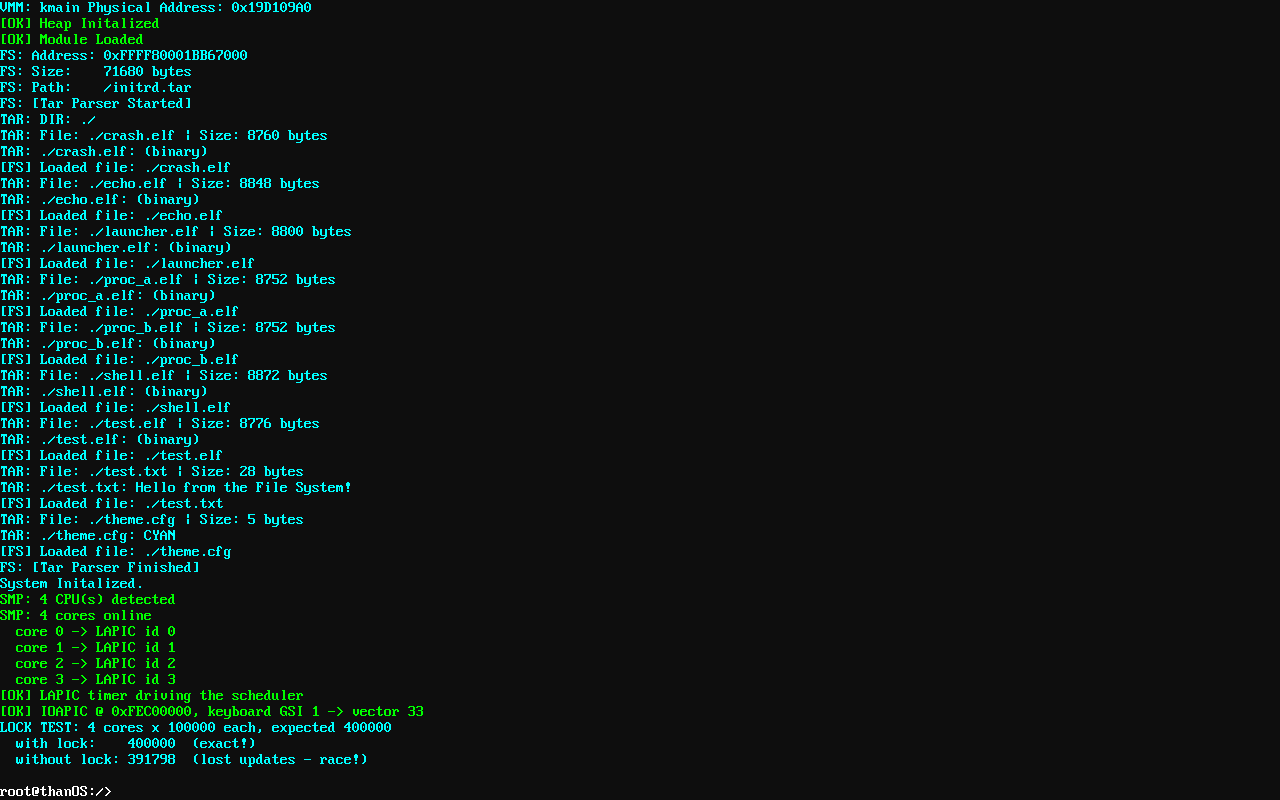
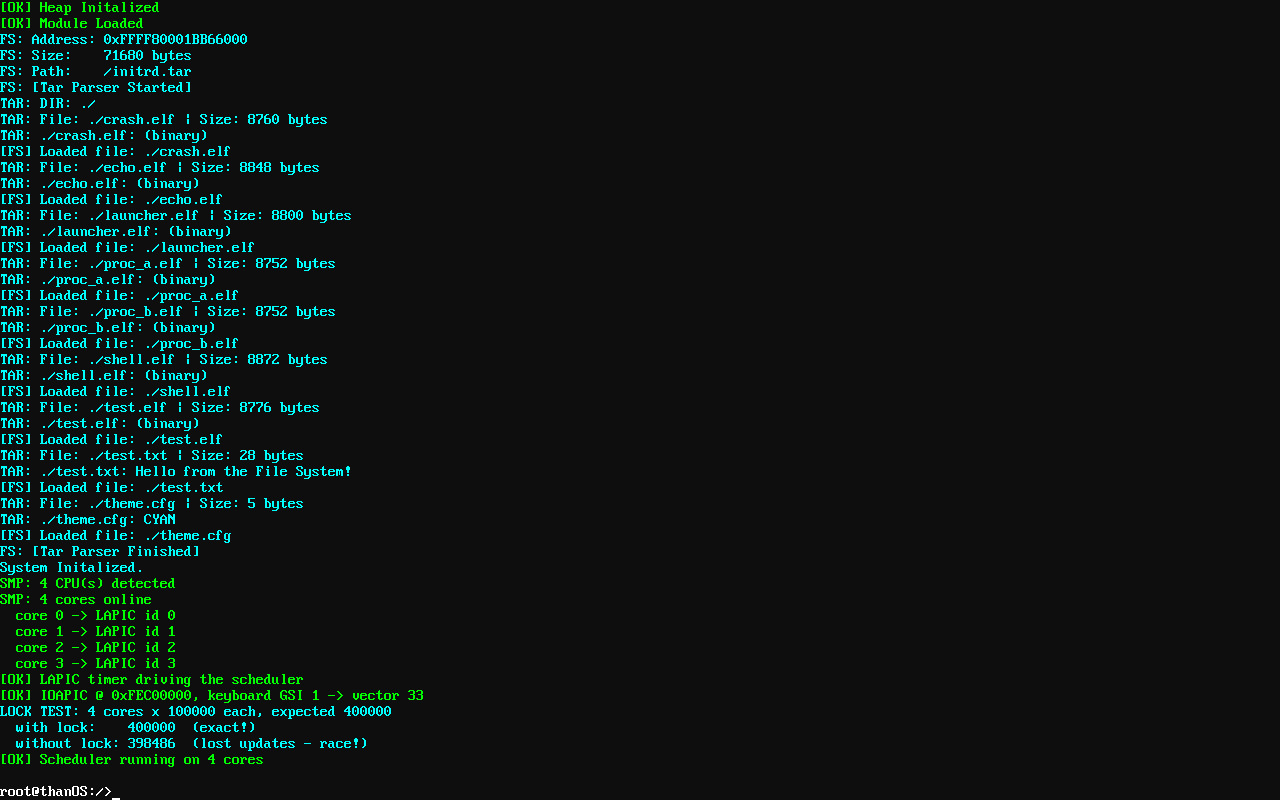
readme: processes run on every core, new screenshots

Changed region(s): [[0.0, 0.0, 0.2812, 0.7812], [0.0, 0.8438, 0.3125, 0.9688], [0.1875, 0.0, 0.25, 0.0312]]

diff --git a/README.md b/README.md
@@ -2,7 +2,8 @@
 
 A 64-bit x86 kernel written from scratch in freestanding C++ with a little
 assembly. No libc, no STL. It boots every core through Limine, runs ring-3
-programs in their own address spaces, and schedules them preemptively.
+programs in their own address spaces, and schedules them preemptively across
+all of the cores.
 
 ![thanOS booting on 4 cores](docs/boot.png)
 
@@ -20,8 +21,10 @@ programs in their own address spaces, and schedules them preemptively.
 - ELF64 loader, and ring 3 through user segments in the GDT plus a TSS per core.
 - Syscalls over `int 0x80` with Linux's numbers: `read`, `write`, `exit`,
   `wait`, and a `spawn` that stands in for fork + exec.
-- Preemptive round-robin scheduler driven by the LAPIC timer. `read()` and
-  `wait()` block, and the process is woken by a keypress or a child exiting.
+- Preemptive round-robin scheduling on every core. Each core has its own LAPIC
+  timer and pulls from one shared run queue, so processes run in parallel and
+  move between cores. `read()` and `wait()` block, and the process is woken by
+  a keypress or a child exiting.
 - Fault isolation: a process that faults is killed and the kernel keeps
   running. On exit its pages, page tables and PML4 are freed.
 - `ush`, a shell that runs in ring 3 and reads input and launches children
@@ -40,9 +43,12 @@ programs in their own address spaces, and schedules them preemptively.
   through a lock-free SPSC ring. The handler only queues the key; running the
   shell command or waking the process blocked in `read()` happens outside
   interrupt context.
-- The extra cores do not run processes yet. After boot they join a lock
-  contention test (the last lines of the screenshot above) and park. Scheduling
-  across cores is the next step.
+- Moving a process between cores is cheap because the kernel keeps no
+  per-process stack: a process is its saved register frame plus its page
+  tables, so a core that parks one can hand it to any other core on the next
+  tick. A core with nothing to run sits in its own idle loop.
+- Before the scheduler starts, every core runs a lock contention test (the
+  `LOCK TEST` lines in the screenshot above).
 
 **Storage**
 - An initrd: a tar archive loaded as a Limine module and exposed through a
@@ -58,13 +64,20 @@ programs in their own address spaces, and schedules them preemptively.
 
 ![shell session](docs/session.png)
 
-- `mount`, `ls`, `cat` read the FAT32 partition on the attached disk.
 - `crash` starts a program that dereferences a null pointer. The page fault
   kills that process only, and `mem` reports the same free page count before
   and after.
-- `ush` starts the userland shell. `hello` there spawns a child and waits for
-  it. The child's output reaches the screen through `int 0x80`.
-- The `[1>0]` markers are the scheduler tracing its context switches.
+- `mt` starts two CPU-bound programs. Cores 3 and 2 pick them up and run them
+  at the same time. `ps`, typed on core 0 while they are running, shows each on
+  its own core.
+- `ush` starts the userland shell. Every time it blocks in `read()` and wakes,
+  whichever core ticks first takes it, so it hops between cores. `hello` there
+  spawns a child and waits for it; the child's output reaches the screen
+  through `int 0x80`.
+- The `[cpu3 0>1]` markers are the scheduler tracing its context switches:
+  the core, the slot it was running, the slot it runs next (0 is idle).
+- Not shown: `mount`, `ls` and `cat` read the FAT32 partition on the attached
+  disk.
 
 ## Build and run
 
@@ -94,7 +107,9 @@ user/          ring-3 programs and the syscall wrappers they use
 
 ## Next
 
-- [ ] Run processes on every core (per-core run state, parallel execution)
+- [ ] Reschedule IPIs, so an idle core takes new work at once instead of on
+      its next tick
+- [ ] Per-core run queues
 - [ ] Growable heap
 - [ ] FAT32 cluster chains and write support
 - [ ] Network stack (e1000, then ARP/ICMP, UDP, TCP)
